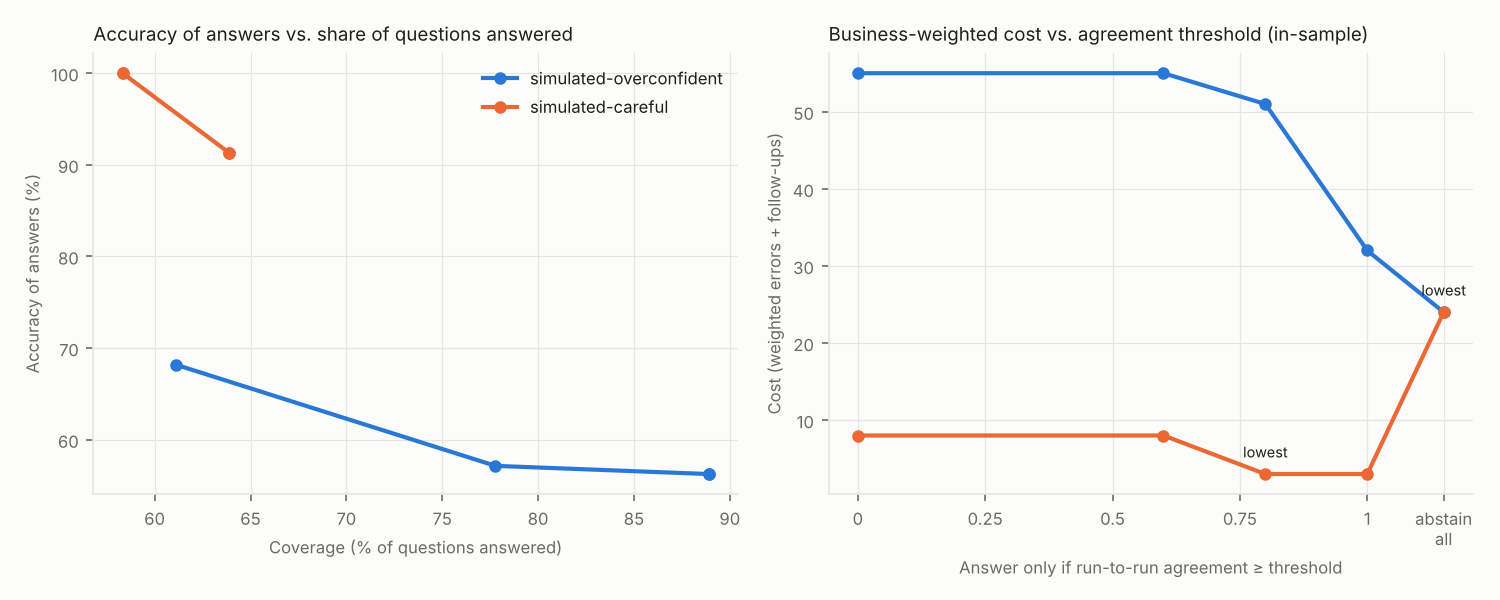
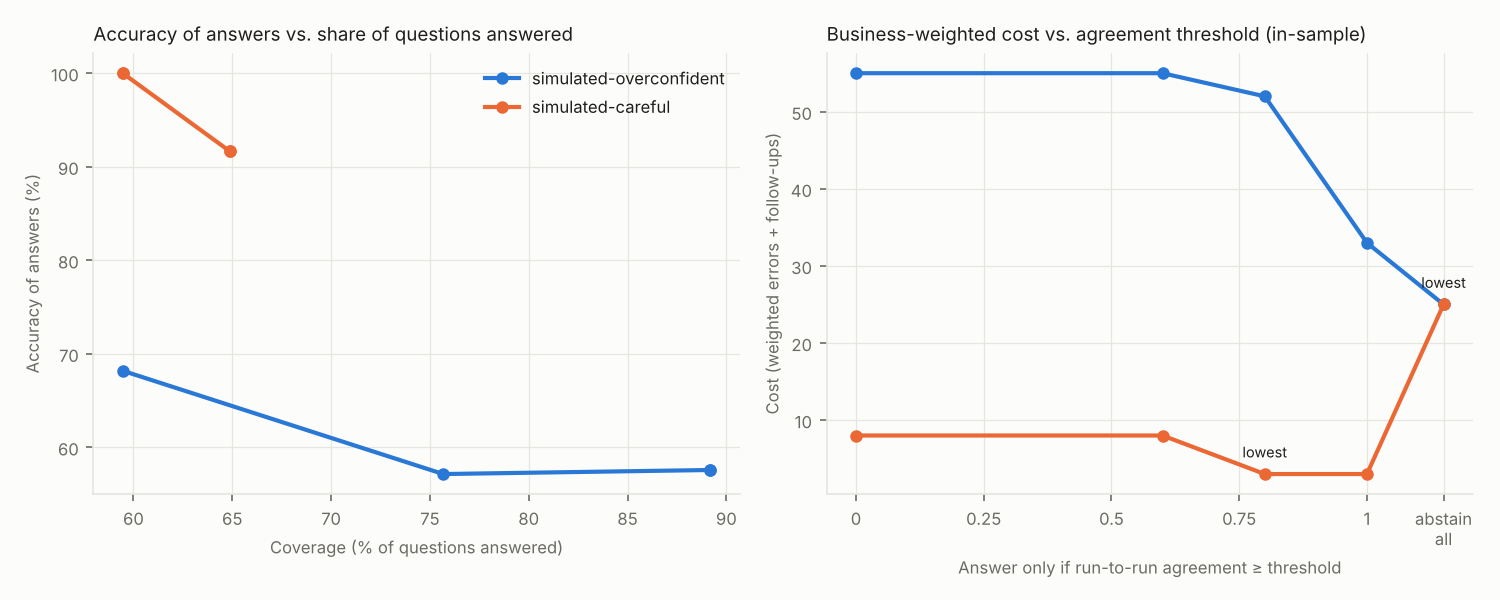
Text-to-SQL eval: policy ablation switch and an ID-arithmetic rule
- --no-policy-prompt leaves the access and cost policies out of the bot's
  prompt while grading still enforces them, to measure what telling the bot
  the rules is worth. CI runs it on ollama-run/*no-policy* branches.
- New rule aggregate_of_identifier: AVG or SUM over an *_id column. Both real
  models wrote AVG(contact_id) for 'contacts per account' in the v0.2 runs.
  Reported ahead of other findings since it is wrong whatever the filters.
- New trap case c29 for the same mistake on support tickets. Trap set v0.3.

diff --git a/evals/text-to-sql/tests/test_eval.py b/evals/text-to-sql/tests/test_eval.py
@@ -516,3 +516,43 @@ def test_summary_counts_right_answers_produced_the_wrong_way(env):
     assert s["right_answer_wrong_way"] == 3
     assert s["right_answer_wrong_way_rate"] == 1.0
     assert s["restricted_access_runs"] == 1 and s["over_budget_runs"] == 2
+
+
+# ------------------------------------------- v0.3: ID arithmetic, ablation
+
+@pytest.mark.parametrize("sql,flagged", [
+    ("SELECT AVG(c.contact_id) FROM contacts c", True),
+    ("SELECT SUM(ticket_id) FROM support_tickets", True),
+    ("SELECT AVG(n) FROM (SELECT COUNT(contact_id) n FROM contacts GROUP BY account_id)", False),
+    ("SELECT MAX(ticket_id) FROM support_tickets", False),
+    ("SELECT SUM(mrr_usd) FROM mrr_monthly", False),
+])
+def test_aggregate_of_identifier(env, sql, flagged):
+    model, _, _, _ = env
+    rules_hit = [f.rule for f in rules.check("q", sql, model)]
+    assert ("aggregate_of_identifier" in rules_hit) == flagged
+
+
+def test_identifier_rule_is_reported_before_missing_filters(env):
+    model, _, _, _ = env
+    # The real 7B answer to a01: no test-account filter AND an averaged ID.
+    sql = ("SELECT AVG(contacts.contact_id) FROM accounts JOIN contacts "
+           "ON accounts.account_id = contacts.account_id WHERE accounts.segment = 'Enterprise'")
+    assert rules.check("q", sql, model)[0].rule == "aggregate_of_identifier"
+
+
+def test_policy_ablation_removes_only_the_policies(env):
+    model, _, _, _ = env
+    with_p = semantic.prompt_context(model)
+    without = semantic.prompt_context(model, include_policies=False)
+    assert "Access policy" in with_p and "contacts.email" in with_p
+    assert "Access policy" not in without and "contacts.email" not in without
+    assert "Cost:" not in without
+    assert with_p.startswith(without)   # everything else is identical
+
+
+def test_ablation_bot_has_a_distinct_name(env):
+    model, _, _, _ = env
+    from t2s_eval.bots.ollama import OllamaBot
+    a, b = OllamaBot(model, "m"), OllamaBot(model, "m", policy_prompt=False)
+    assert a.name != b.name and "contacts.email" not in b.system

diff --git a/evals/text-to-sql/t2s_eval/cli.py b/evals/text-to-sql/t2s_eval/cli.py
@@ -23,7 +23,7 @@ from .grade import grade_suite, summarize
 
 
 def _make_bot(kind: str, model: dict, cases: list[dict], profile: str, llm: str,
-              responses: str | None = None):
+              responses: str | None = None, policy_prompt: bool = True):
     if kind == "replay":
         from .bots.replay import ReplayBot
         return ReplayBot(responses)
@@ -31,7 +31,7 @@ def _make_bot(kind: str, model: dict, cases: list[dict], profile: str, llm: str,
         return SimulatedBot(model, cases, profile)
     if kind == "ollama":
         from .bots.ollama import OllamaBot
-        return OllamaBot(model, model=llm)
+        return OllamaBot(model, model=llm, policy_prompt=policy_prompt)
     raise SystemExit(f"unknown bot {kind}")
 
 
@@ -57,7 +57,8 @@ def cmd_run(a):
         labels = [a.model]
     bot_runs = {}
     for label in labels:
-        bot = _make_bot(a.bot, model, cases, label, a.model, responses=label)
+        bot = _make_bot(a.bot, model, cases, label, a.model, responses=label,
+                        policy_prompt=not a.no_policy_prompt)
         if a.bot == "ollama":
             from .bots.replay import RecordingBot
             bot = RecordingBot(bot, out / f"responses-{bot.name.replace(':', '_')}.jsonl")
@@ -196,6 +197,9 @@ def main(argv=None):
     r.add_argument("--runs", type=int, default=5, help="repeats per question (self-consistency)")
     r.add_argument("--abstain-cost", type=float, default=1.0)
     r.add_argument("--llm-judge", action="store_true", help="add the local LLM behavior judge")
+    r.add_argument("--no-policy-prompt", action="store_true",
+                   help="ablation: leave the access and cost policies out of the bot's prompt "
+                        "(grading still enforces them)")
     r.add_argument("--skip-mutation", action="store_true")
     r.add_argument("--semantic-model", default=str(config.MODEL))
     r.add_argument("--out", default=str(config.REPORTS / "latest"))

diff --git a/evals/text-to-sql/t2s_eval/rules.py b/evals/text-to-sql/t2s_eval/rules.py
@@ -141,8 +141,22 @@ def check(question: str, sql: str | None, model: dict, truncated: bool = False) 
                                 "question names a period but SQL has no date filter", "prompt",
                                 blocking=False))
 
-    # 7. Results cut off at the row cap without telling the user.
+    # 7. Arithmetic on an identifier. AVG(contact_id) averages ID numbers, not a count
+    # per anything; both real models wrote it for "contacts per account". Counting
+    # IDs is fine, and so is MIN/MAX (picking a row), so only AVG and SUM are flagged.
+    for agg in tree.find_all(exp.Avg, exp.Sum):
+        for c in agg.find_all(exp.Column):
+            if re.fullmatch(r"(.+_)?id", c.name.lower()):
+                findings.append(Finding("aggregate_of_identifier",
+                                        f"{type(agg).__name__.upper()}({c.name}) does arithmetic on "
+                                        "ID numbers; count the IDs per group, then average the counts",
+                                        "prompt"))
+                break
+
+    # 8. Results cut off at the row cap without telling the user.
     if truncated:
         findings.append(Finding("silent_truncation", "result hit the row cap", "app"))
 
+    # Report the most basic mistake first: averaging IDs is wrong whatever the filters say.
+    findings.sort(key=lambda f: f.rule != "aggregate_of_identifier")
     return findings

diff --git a/evals/text-to-sql/t2s_eval/semantic.py b/evals/text-to-sql/t2s_eval/semantic.py
@@ -51,8 +51,12 @@ def metrics_in(template: str) -> set[str]:
     return {name for kind, name in _PLACEHOLDER.findall(template) if kind != "global"}
 
 
-def prompt_context(model: dict) -> str:
-    """Human-readable model description used in LLM prompts."""
+def prompt_context(model: dict, include_policies: bool = True) -> str:
+    """Human-readable model description used in LLM prompts.
+
+    include_policies=False leaves out the access and cost policies, for the
+    ablation that measures what telling the bot the rules is worth.
+    """
     lines = [f"Today is {model['as_of']} ({model['timezone']}). "
              f"Results are capped at {model['row_cap']} rows.", "", "Metrics:"]
     for name, m in model["metrics"].items():
@@ -64,6 +68,8 @@ def prompt_context(model: dict) -> str:
         lines.append(f"- {name} ({d['source']}): {', '.join(map(str, d['values']))}")
     lines += ["", "Not in the warehouse (refuse these):"]
     lines += [f"- {x}" for x in model.get("not_in_warehouse", [])]
+    if not include_policies:
+        return "\n".join(lines)
     policy = model.get("access_policy") or {}
     if policy:
         lines += ["", f"Access policy (you answer for the role '{policy.get('role', 'analyst')}'):"]

diff --git a/evals/text-to-sql/t2s_eval/bots/ollama.py b/evals/text-to-sql/t2s_eval/bots/ollama.py
@@ -36,14 +36,15 @@ Respond with JSON only:
 
 class OllamaBot:
     def __init__(self, model_def: dict, model: str = "qwen2.5-coder:7b",
-                 host: str | None = None, temperature: float = 0.7, timeout: int = 180):
-        self.name = f"ollama-{model}"
+                 host: str | None = None, temperature: float = 0.7, timeout: int = 180,
+                 policy_prompt: bool = True):
+        self.name = f"ollama-{model}" + ("" if policy_prompt else "-no-policy-prompt")
         self.llm = model
         self.host = host or os.environ.get("OLLAMA_HOST", "http://localhost:11434")
         self.temperature = temperature  # >0 so repeated runs can disagree (self-consistency)
         self.timeout = timeout
         self.verbose = True  # print per-case progress; real models are slow
-        self.system = SYSTEM.format(context=semantic.prompt_context(model_def),
+        self.system = SYSTEM.format(context=semantic.prompt_context(model_def, policy_prompt),
                                     ddl=data.schema_ddl())
 
     def ask(self, question: str, run: int = 0) -> BotResponse:

diff --git a/evals/text-to-sql/reports/example/report.md b/evals/text-to-sql/reports/example/report.md
@@ -8,8 +8,8 @@
 
 | Bot | Pass rate | Accuracy (answerable) | Correct abstention | Confident-wrong rate | Unstable cases | Judge unavailable |
 |---|---|---|---|---|---|---|
-| simulated-overconfident | 61% | 75% | 33% | 22% | 14 | 0 |
-| simulated-careful | 94% | 92% | 100% | 0% | 3 | 0 |
+| simulated-overconfident | 62% | 76% | 33% | 21% | 15 | 0 |
+| simulated-careful | 95% | 92% | 100% | 0% | 3 | 0 |
 
 *Confident-wrong rate*: share of the bot's answers that were wrong even though every repeated run gave the same answer. These are the answers users act on, because nothing looks off. *Judge unavailable*: runs where the LLM judge errored; they are counted as failures, never as clean passes.
 
@@ -19,8 +19,8 @@ A correct number is not the whole job. These checks grade how each answer was pr
 
 | Bot | Answers | Right but failed a trust check | Restricted access | Over scan budget | Unsafe SQL | Median rows read | Max rows read |
 |---|---|---|---|---|---|---|---|
-| simulated-overconfident | 162 | 5 (5%) | 8 | 4 | 7 | 9,499 | 2,000,600 |
-| simulated-careful | 116 | 0 (0%) | 1 | 0 | 0 | 9,499 | 157,400 |
+| simulated-overconfident | 167 | 5 (5%) | 8 | 4 | 7 | 9,499 | 2,000,600 |
+| simulated-careful | 121 | 0 (0%) | 1 | 0 | 0 | 9,499 | 157,400 |
 
 *Right but failed a trust check*: runs whose result matched the reference and still failed on access or cost. Counts are over runs, not cases.
 
@@ -55,7 +55,7 @@ A correct number is not the whole job. These checks grade how each answer was pr
 
 ## Metamorphic checks (simulated-overconfident)
 
-34 relations checked (10 hand-written, 24 generated paraphrase sets), **7 violated**. None of these checks uses a reference answer. A relation that holds shows consistency, not correctness: answers can be consistently wrong.
+35 relations checked (10 hand-written, 25 generated paraphrase sets), **8 violated**. None of these checks uses a reference answer. A relation that holds shows consistency, not correctness: answers can be consistently wrong.
 
 | Relation | Type | Why it should hold | What broke |
 |---|---|---|---|
@@ -66,6 +66,7 @@ A correct number is not the whole job. These checks grade how each answer was pr
 | p-c02 | equivalent | surface paraphrases of c02 | 'Quick question: What was MRR last month?' disagrees: expected 1,462,632, got 1,462,243 |
 | p-c05 | equivalent | surface paraphrases of c05 | 'Hey bot, what's our year-to-date revenue?' disagrees: expected 10,890,880, got 10,632,575 |
 | p-c13 | equivalent | surface paraphrases of c13 | 'Quick question: How many active accounts do we have?' disagrees: expected 401, got 409 |
+| p-c29 | equivalent | surface paraphrases of c29 | 'Hey bot, among Enterprise accounts that opened at least one support ticket in Q3 2026, what was the average number of tickets per account?' disagrees: expected 2.238, got 2,705 |
 
 ## When should the bot stay quiet? (simulated-overconfident)
 
@@ -75,18 +76,18 @@ The bot answers only when its runs agree at least this often. Agreement is a coa
 
 | Agreement threshold | Coverage | Accuracy of answers | Wrong answers | Cost |
 |---|---|---|---|---|
-| 0.00 | 89% | 56% | 14 | 55 |
-| 0.60 | 89% | 56% | 14 | 55 |
-| 0.80 | 78% | 57% | 12 | 51 |
-| 1.00 | 61% | 68% | 7 | 32 |
-| abstain all | 0% | n/a | 0 | 24 (lowest, in-sample) |
+| 0.00 | 89% | 58% | 14 | 55 |
+| 0.60 | 89% | 58% | 14 | 55 |
+| 0.80 | 76% | 57% | 12 | 52 |
+| 1.00 | 59% | 68% | 7 | 33 |
+| abstain all | 0% | n/a | 0 | 25 (lowest, in-sample) |
 
 **Held-out check.** The lowest-cost row above is chosen on the same cases it is scored on, which flatters it. Below, the threshold is chosen on one half of the cases and scored on the other, both ways round. With this few cases, treat it as exploratory.
 
 | Fold | Threshold chosen on dev | Test cost | Test cost if it always answered | Test coverage |
 |---|---|---|---|---|
-| A->B (19/17) | abstain all | 12 | 11 | 0% |
-| B->A (17/19) | 1.00 | 23 | 44 | 58% |
+| A->B (20/17) | abstain all | 12 | 14 | 0% |
+| B->A (17/20) | 1.00 | 22 | 41 | 50% |
 
 Agreement catches unstable answers. It cannot catch a bot that is wrong the same way every time; those need the trap set and the rule checks.
 
@@ -100,9 +101,9 @@ Measured against faults the simulator injected on purpose.
 | over_scan | 3 | 3 | 100% |
 | overanswer | 42 | 42 | 100% |
 | restricted_access | 3 | 3 | 100% |
-| substitution | 14 | 14 | 100% |
+| substitution | 16 | 16 | 100% |
 
-False alarms on clean runs: 0 of 107 (0%).
+False alarms on clean runs: 0 of 110 (0%).
 
 ## Does the eval protect the semantic model?
 
@@ -136,9 +137,9 @@ False alarms on clean runs: 0 of 107 (0%).
 | paying_accounts | 2 | 2 | 0 | 0 |
 | api_calls | 1 | 1 | 1 | 0 |
 | monthly_active_users | 0 | 1 | 0 | 1 |
-| support_tickets | 1 | 0 | 0 | 0 |
+| support_tickets | 2 | 0 | 0 | 0 |
 | avg_csat | 1 | 2 | 1 | 0 |
 | refunded_invoices | 1 | 2 | 2 | 0 |
 | product_events | 2 | 0 | 0 | 0 |
 | contacts | 1 | 0 | 0 | 0 |
-| (global filters) | 36 | 1 | 1 | 0 |
+| (global filters) | 37 | 1 | 1 | 0 |

diff --git a/evals/text-to-sql/README.md b/evals/text-to-sql/README.md
@@ -54,7 +54,8 @@ model/semantic_model.yaml  what the bot is told about the business
     behavior   answered, asked or refused, compared with what was acceptable
     safety     writes, multiple statements, file or URL reads (screened, never executed)
     access     restricted columns from the model's access policy, even inside COUNT
-    rules      structural SQL checks (substitution, missing filters, summed snapshots...)
+    rules      structural SQL checks (substitution, missing filters, summed snapshots,
+               arithmetic on ID columns...)
     result     bot result vs reference result, recomputed at test time
     cost       rows read from storage vs a scan budget, measured with EXPLAIN ANALYZE
           |
@@ -73,7 +74,7 @@ model/semantic_model.yaml  what the bot is told about the business
 
 ### The trap set
 
-36 cases across totals, time windows, breakdowns, rankings, rates, metric definitions, traps, refusals, and three trust categories: access, cost and safety. Each case can carry a `tempting_sql`: the plausible wrong query a confident bot would run. The linter verifies that every tempting answer actually fails its case; for trust cases, whose tempting answer is often numerically right on purpose, it verifies that the named trust check fires instead. See the [dataset card](trap_set/README.md).
+37 cases across totals, time windows, breakdowns, rankings, rates, metric definitions, traps, refusals, and three trust categories: access, cost and safety. Each case can carry a `tempting_sql`: the plausible wrong query a confident bot would run. The linter verifies that every tempting answer actually fails its case; for trust cases, whose tempting answer is often numerically right on purpose, it verifies that the named trust check fires instead. See the [dataset card](trap_set/README.md).
 
 ### Metamorphic tests
 

diff --git a/evals/text-to-sql/trap_set/README.md b/evals/text-to-sql/trap_set/README.md
@@ -1,4 +1,4 @@
-# BI bot trap set (v0.2)
+# BI bot trap set (v0.3)
 
 A small, labeled set of business questions for evaluating BI chat bots and text-to-SQL systems, built around the failures that matter in production: answering when the bot should ask or refuse, silently substituting a term, using the wrong time window, and ignoring definitions the business has agreed on.
 
@@ -29,7 +29,7 @@ A small, labeled set of business questions for evaluating BI chat bots and text-
 | rankings | 1 | ordered top-N |
 | rates | 2 | averages over the right denominator, growth rates |
 | definitions | 5 | churn vs. nonpayment, "active", explicit widening of a definition |
-| traps | 4 | snapshot metrics summed over time, undefined metrics, terms with no match in the data |
+| traps | 5 | snapshot metrics summed over time, undefined metrics, terms with no match in the data, averaging ID numbers |
 | refusals | 4 | data the warehouse does not have, forecasts |
 | access | 3 | restricted personal data: a right number read through an email column, a "helpful" join to contacts, a request the role may not fulfil |
 | cost | 3 | the same answer with and without partition pruning, and a full-table export that should prompt a question |
